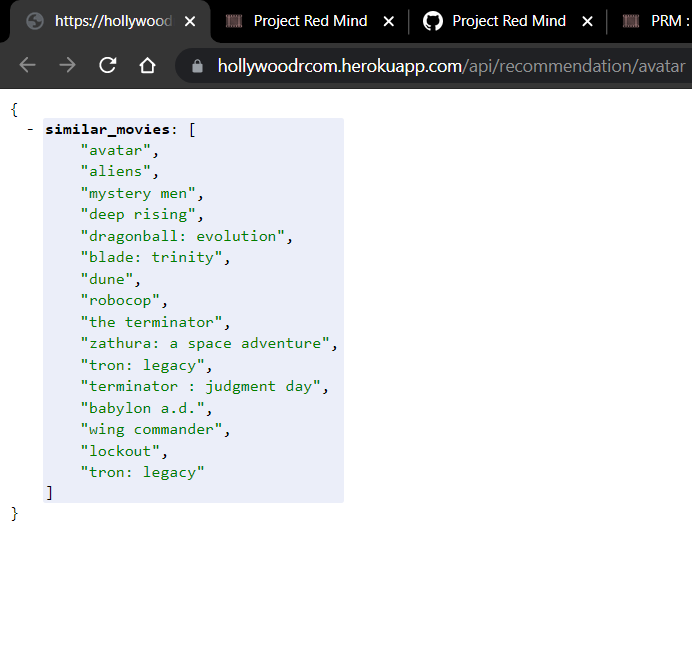
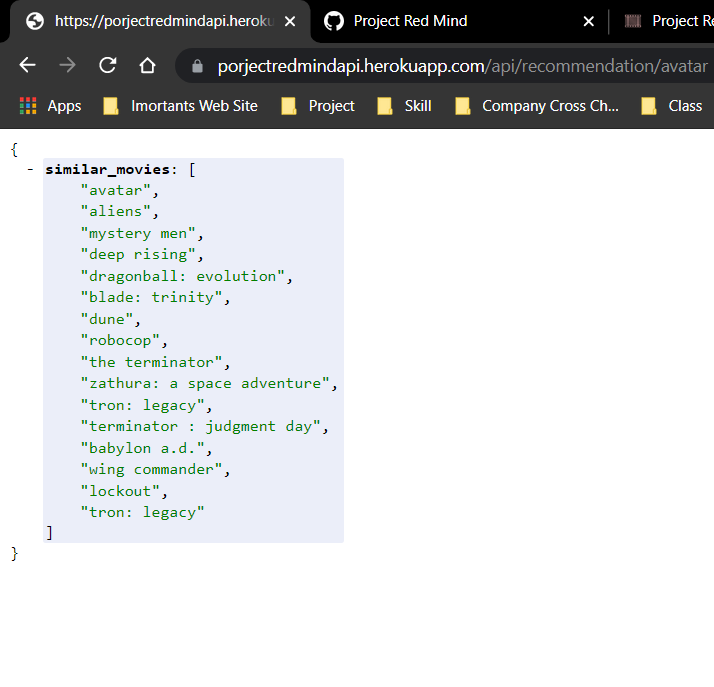
update api url and navbar

Changed region(s): [[0.0, 0.0, 1.0, 0.7692], [0.0607, 0.7385, 0.091, 0.8]]

diff --git a/templates/index.html b/templates/index.html
@@ -12,11 +12,11 @@
         </div>
         <div class="col-md-8 col-sm-12 my-2 trans p-3 border rounded shadow-lg text-light text-break">
             <h1>Send GET request -</h1>
-            <h4>https://hollywoodrcom.herokuapp.com/api/recommendation/{<i>movie_name</i>}</h4>
+            <h4>https://porjectredmindapi.herokuapp.com/api/recommendation/{<i>movie_name</i>}</h4>
             <h5>where, movie_name your movie name</h5>
             <br>
             <h1>Example -</h1>
-            <a href="https://hollywoodrcom.herokuapp.com/api/recommendation/avatar" target="_blank" class="h4">https://hollywoodrcom.herokuapp.com/api/recommendation/avatar</a>
+            <a href="https://porjectredmindapi.herokuapp.com/api/recommendation/avatar" target="_blank" class="h4">https://porjectredmindapi.herokuapp.com/api/recommendation/avatar</a>
         </div>
     </div>
 </div>
@@ -32,11 +32,11 @@
         </div>
         <div class="col-md-8 col-sm-12 my-2 trans p-3 border rounded shadow-lg text-light text-break">
             <h1>Send GET request -</h1>
-            <h4>https://hollywoodrcom.herokuapp.com/api/review/{<i>movie_review</i>}</h4>
+            <h4>https://porjectredmindapi.herokuapp.com/api/review/{<i>movie_review</i>}</h4>
             <h5>where, movie_review your movie review</h5>
             <br>
             <h1>Example -</h1>
-            <a href="https://hollywoodrcom.herokuapp.com/api/review/good" target="_blank" class="h4">https://hollywoodrcom.herokuapp.com/api/review/good</a>
+            <a href="https://porjectredmindapi.herokuapp.com/api/review/good" target="_blank" class="h4">https://porjectredmindapi.herokuapp.com/api/review/good</a>
         </div>
     </div>
 </div>

diff --git a/static/css/style.css b/static/css/style.css
@@ -1,14 +1,5 @@
-.text-responsive {
-  font-size: calc(100% + 1vw + 1vh);
-  font-family: "Rubik", sans-serif;
-}
-
 .trans{
   background-color: rgba(225, 0, 0, 0.3);
-}
-
-.trans2{
-  background-color: #1d1d1dc9;
 }
 
 .bg {
@@ -18,26 +9,4 @@
   background-position: center;
   background-repeat: no-repeat;
   background-size: cover;
-}
-
-.bg-cast {
-  background-image: url("../images/cast-background.jpg");
-  height: 100%;
-  background-color: rgb(17, 10, 10);
-  background-position: center;
-  background-repeat: no-repeat;
-  background-size: cover;
-}
-
-.card, table tr td, table tr th{
-  background-color: rgba(0, 0, 0, 0) !important;
-}
-
-.astext {
-  background:none;
-  border:none;
-  margin:0;
-  padding:0;
-  cursor: pointer;
-  color: blue;
 }

diff --git a/templates/navbar.html b/templates/navbar.html
@@ -8,7 +8,7 @@
         <div class="collapse navbar-collapse" id="navbarSupportedContent">
             <ul class="navbar-nav me-auto mb-2 mb-lg-0">
                 <li class="nav-item">
-                    <a class="nav-link" href="">Home <span class="sr-only">(current)</span></a>
+                    <a class="nav-link" href="https://projectredmind.herokuapp.com/">Home <span class="sr-only">(current)</span></a>
                 </li>
                 <li class="nav-item">
                     <a class="nav-link active disabled">API <span class="sr-only">(current)</span></a>

diff --git a/templates/base.html b/templates/base.html
@@ -7,7 +7,7 @@
     <link href="{{url_for('static',filename='css/all.min.css')}}" rel="stylesheet">
     <link href="{{url_for('static',filename='css/style.css')}}" rel="stylesheet">
     <link rel="shortcut icon" href="{{url_for('static',filename='images/logo.png')}}" type="image/x-icon">
-    <title>Project Red Mind</title>
+    <title>Project Red Mind : API</title>
 </head>
 <body>
     {% include 'navbar.html' %}
